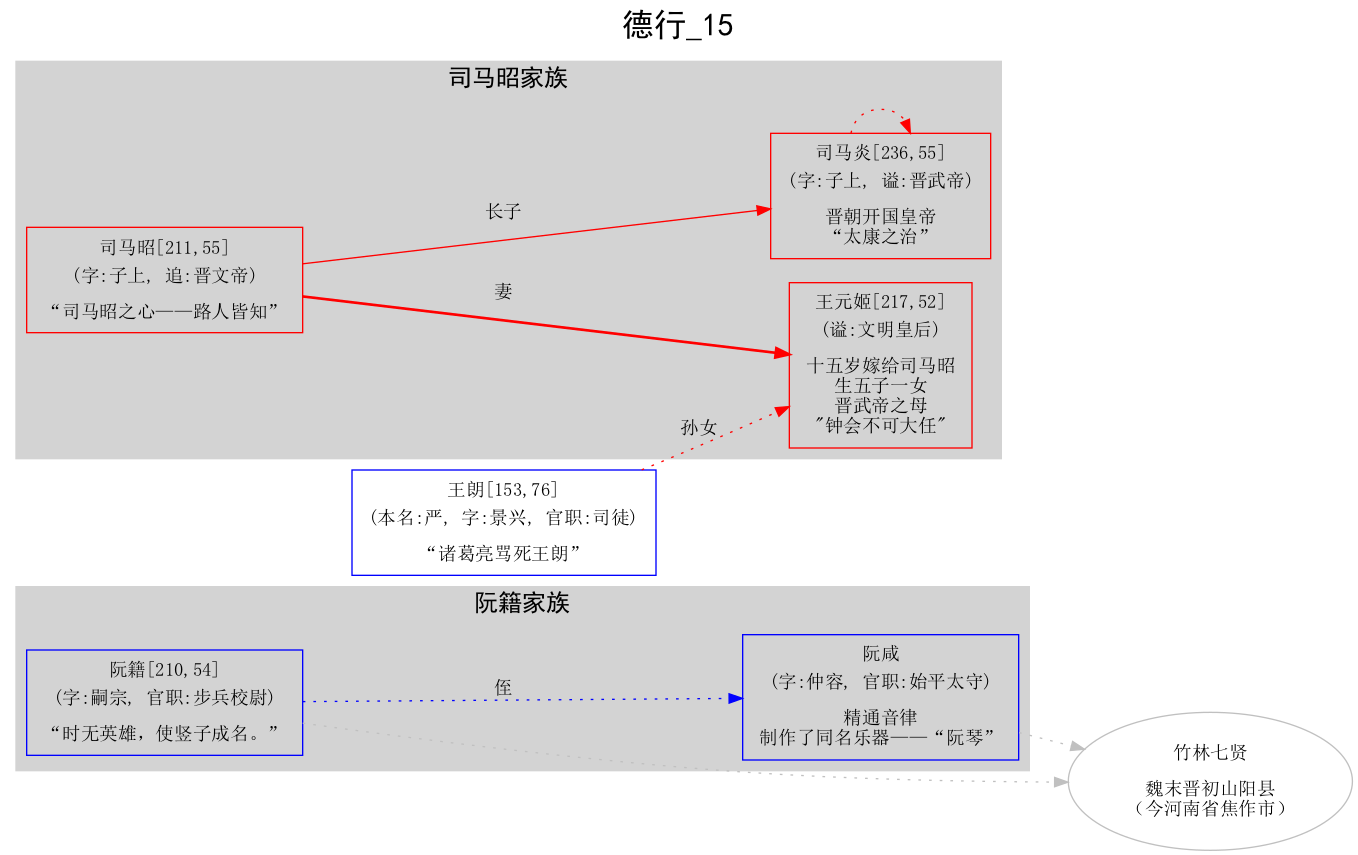
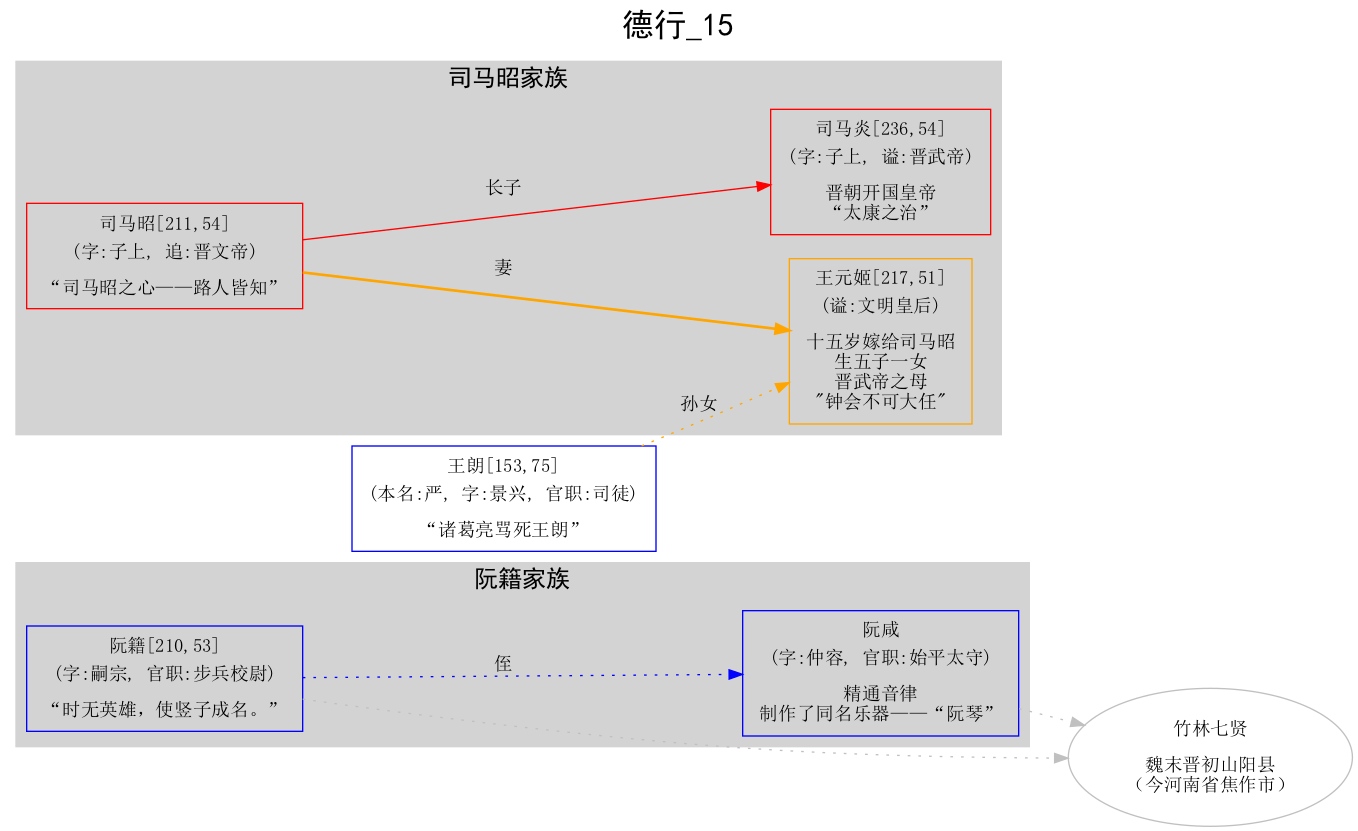
add some person

diff --git a/bin/make.py b/bin/make.py
@@ -182,7 +182,7 @@ digraph %s
         if u'company' == node.type :
             return u'gray'
         elif re.match(u'.*(帝|谥).*', str(node.other_names)):
-            return u'red'
+            return (u'red' if u'M'==node.sex else u'orange')
         else :
             return (u'blue' if u'M'==node.sex else u'green')
 
@@ -239,7 +239,7 @@ digraph %s
                     else:
                         iDeath = int(death)
 
-                    age = iDeath - iBirth + 1
+                    age = iDeath - iBirth
 
                 # print("iDeath=" + str(iDeath))
 
